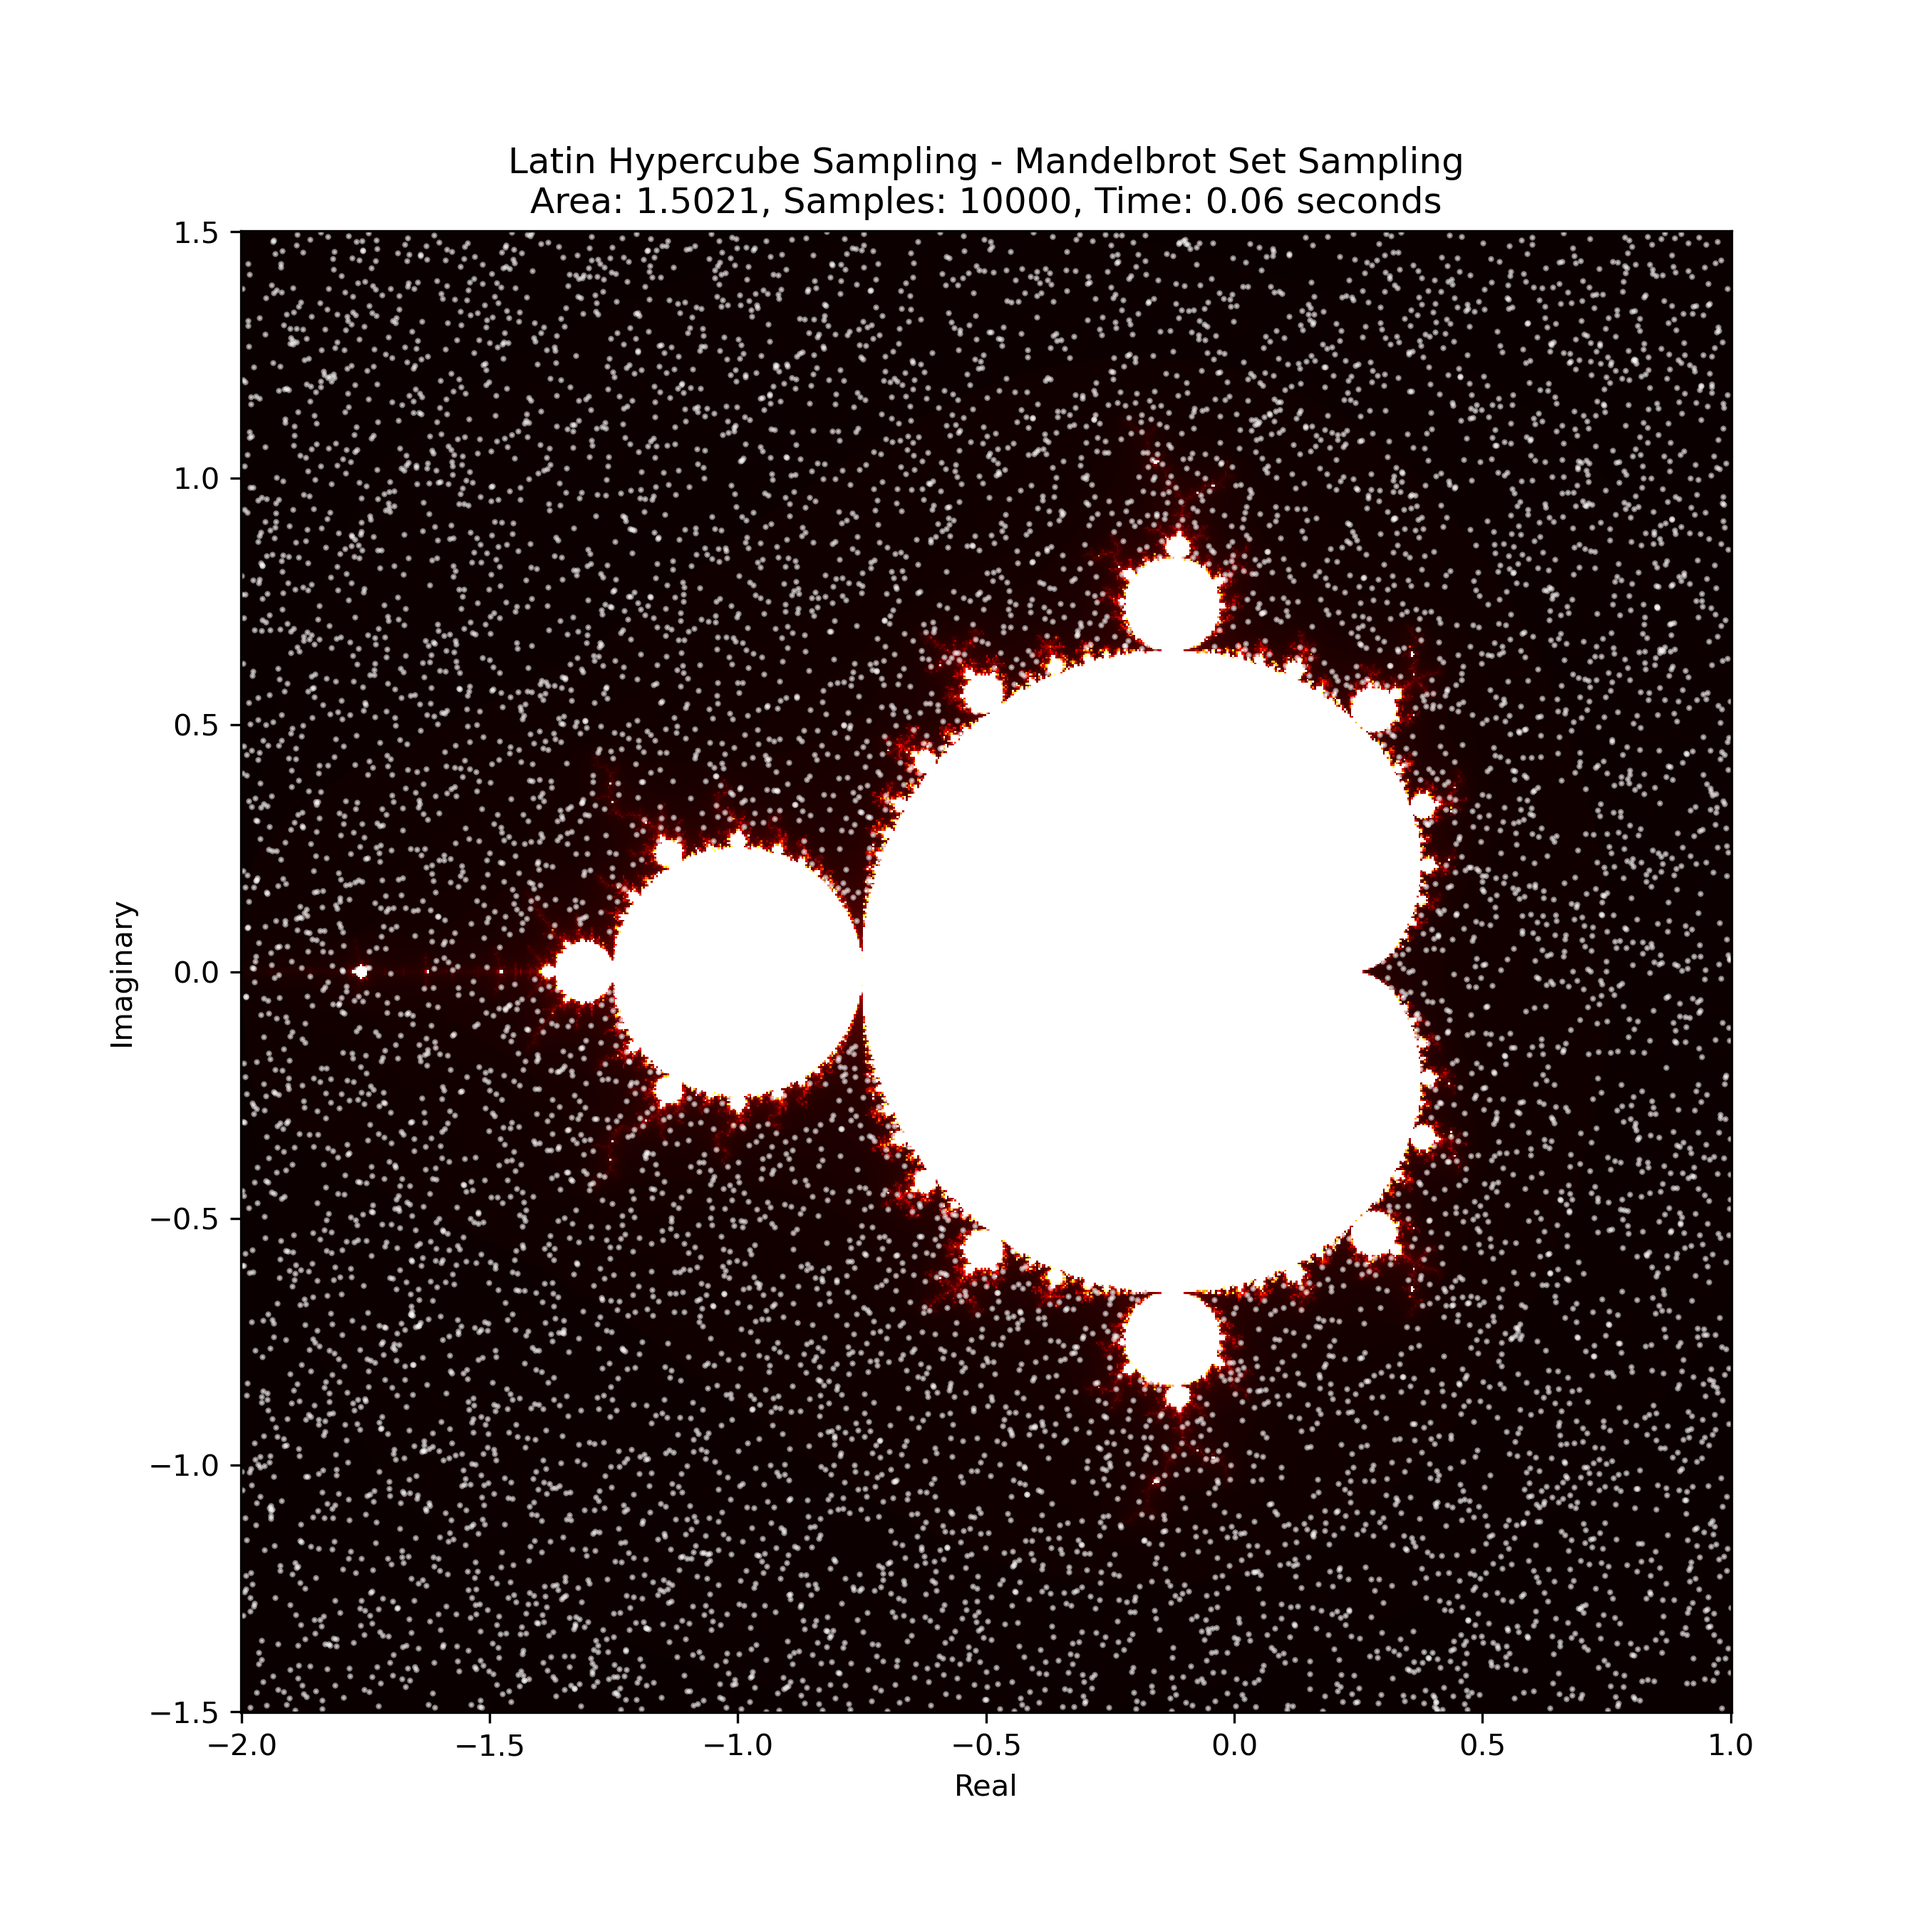
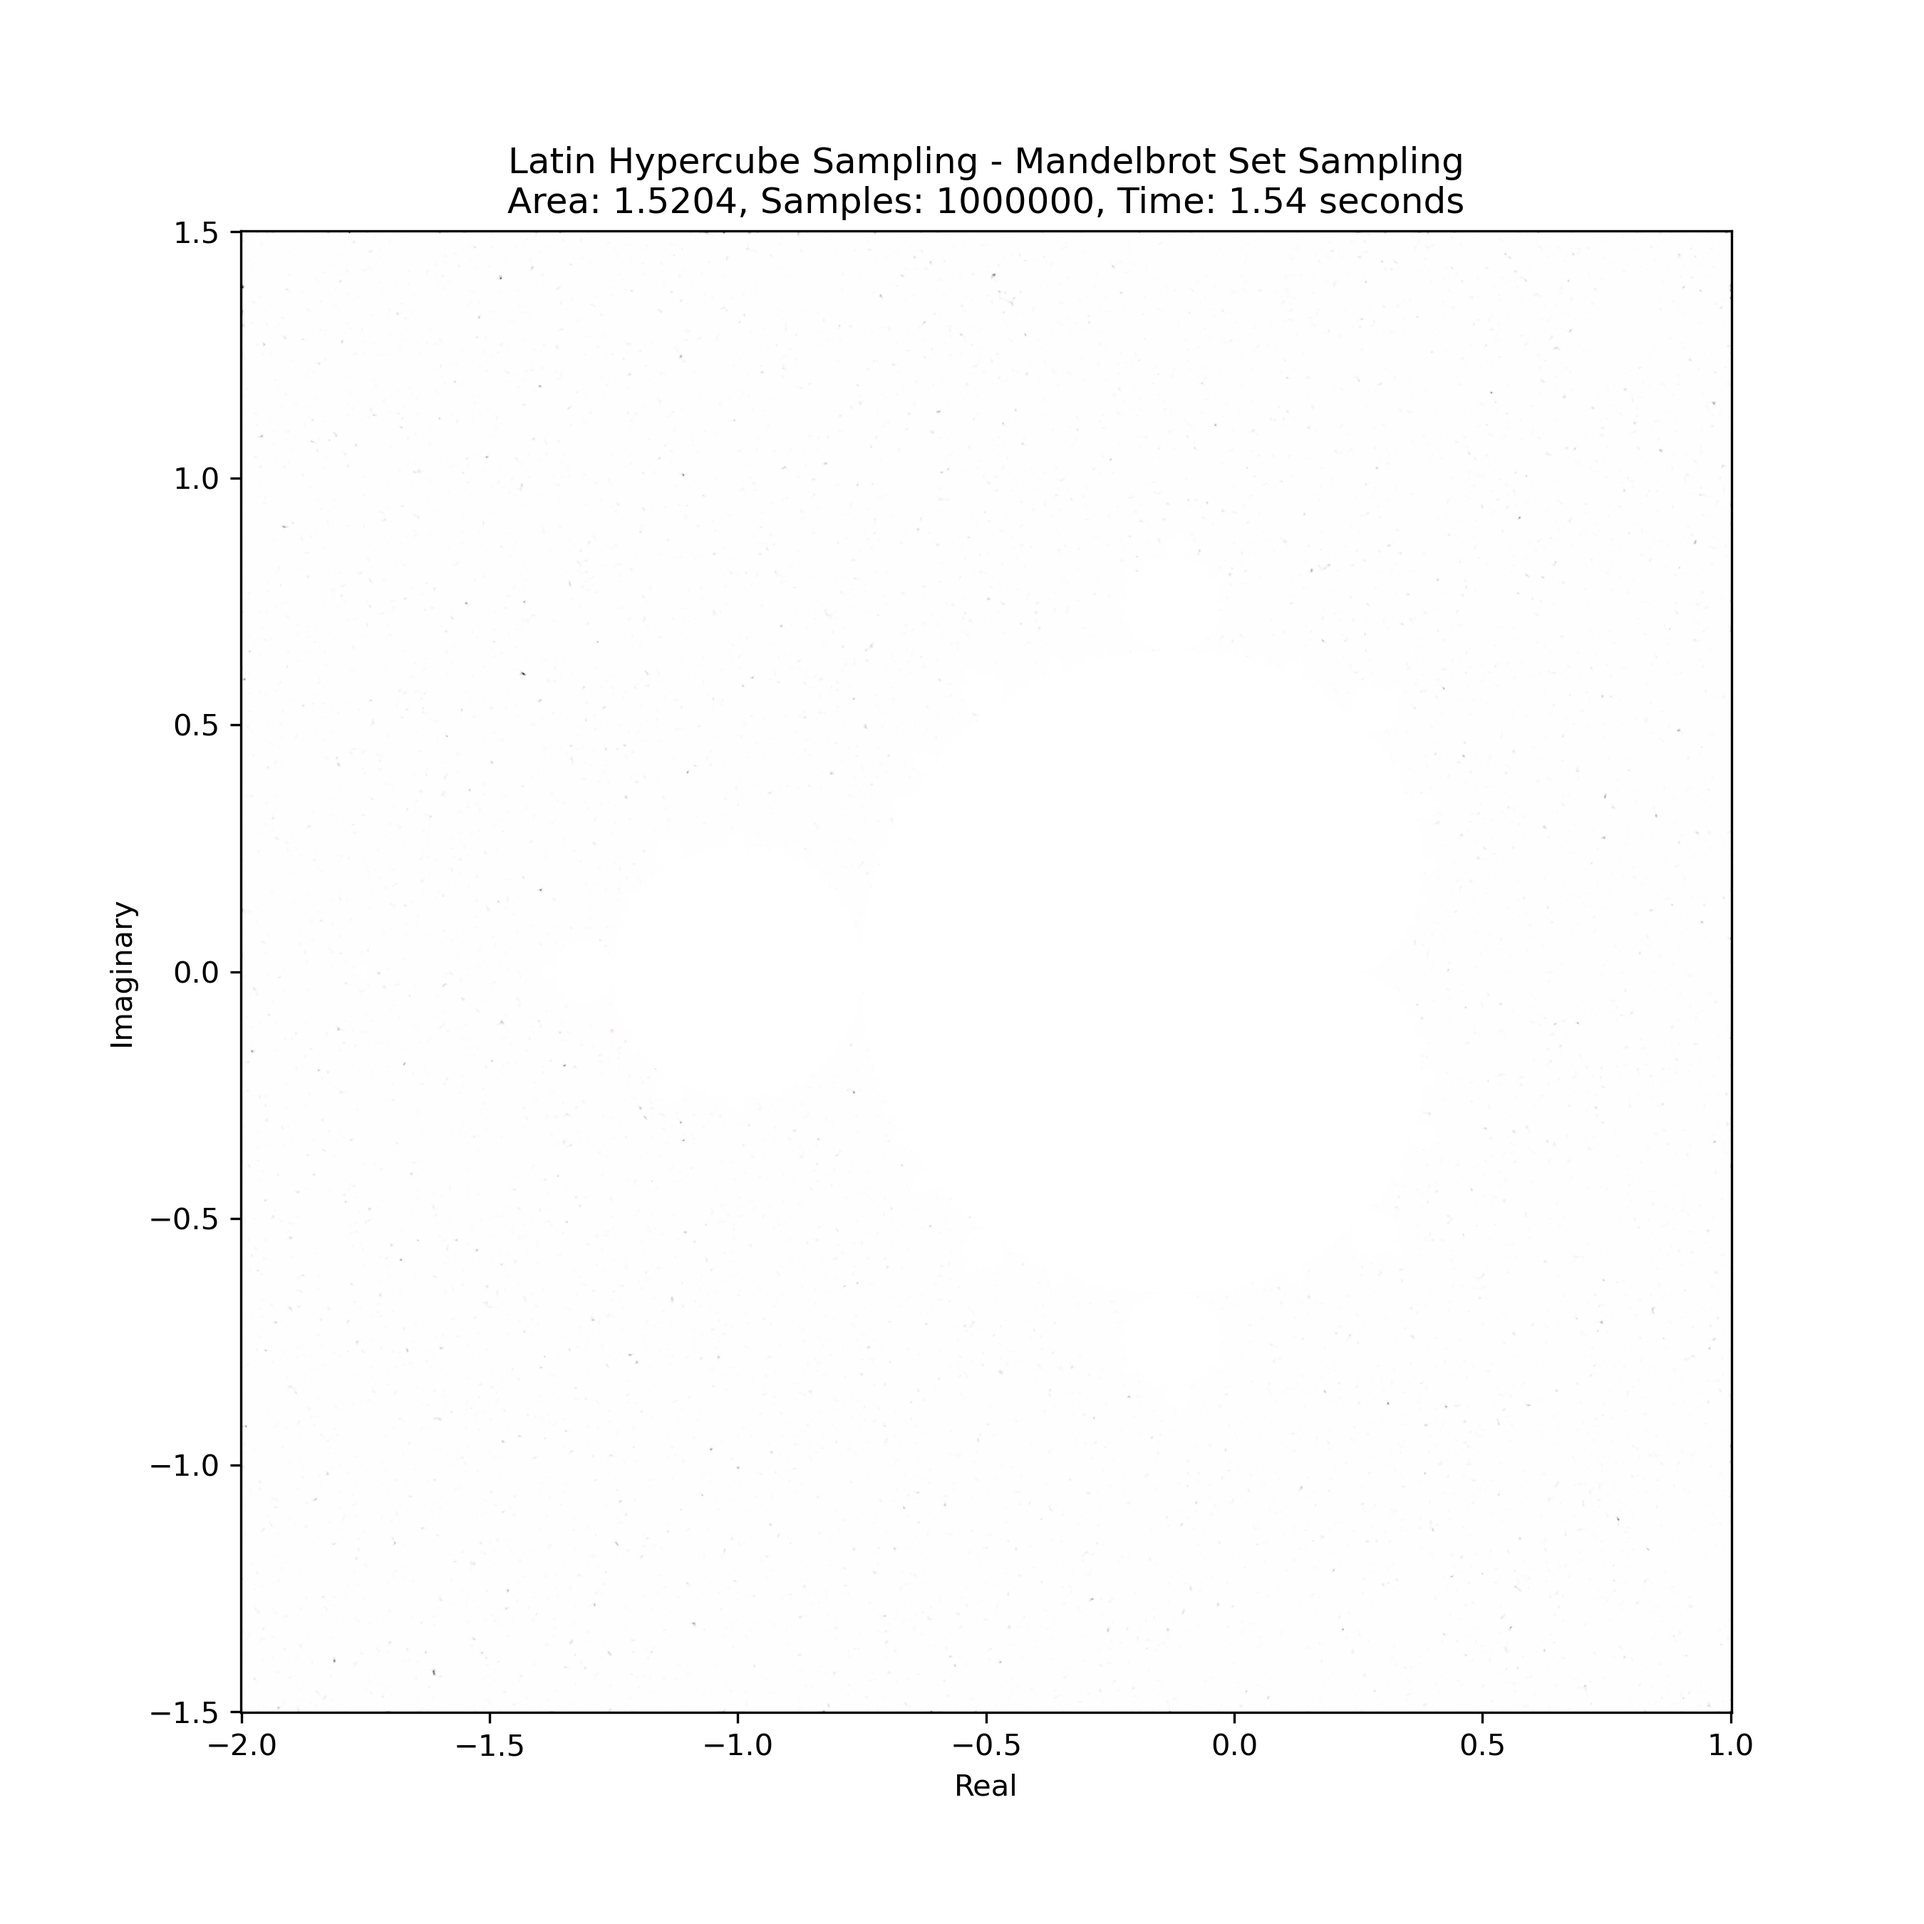
update

diff --git a/iteration_convergence.py b/iteration_convergence.py
@@ -1,0 +1,88 @@
+import numpy as np
+import scipy.stats as st
+import math
+import csv
+import matplotlib.pyplot as plt
+import seaborn as sns
+from methods import random_sampling, latin_sampling_scipy as LHS, orthogonal_sampling
+from antithetic import antithetic_random_sampling as ARS, antithetic_latin_sampling as ALS, antithetic_orthogonal_sampling as AOS
+from methods import xmax, xmin, ymax, ymin, n_samples, max_iter
+
+def conf_int(mean, var, n, p=0.95):
+    """
+    Calculate the confidence interval for a given mean, variance, and sample size.
+
+    Parameters:
+    mean (float): Mean value of the data.
+    var (float): Variance of the data.
+    n (int): Sample size.
+    p (float): Confidence level (default is 0.95 for 95%).
+
+    Returns:
+    str: Confidence interval represented as a string.
+    """
+    pnew = (p + 1) / 2
+    zval = st.norm.ppf(pnew)
+    sigma = math.sqrt(var)
+    alambda = (zval * sigma) / math.sqrt(n)
+    min_lambda = mean - alambda
+    plus_lambda = mean + alambda
+    return f"[{min_lambda:.4f}, {plus_lambda:.4f}]"
+
+
+sns.set(style="whitegrid")
+colors = sns.color_palette("pastel")
+
+
+def plot_convergence_iterations(xmin, xmax, ymin, ymax, n_samples, iteration_steps, simulations=10, p_value=0.95, colors=None):
+    plt.rcParams.update({"text.usetex": True, "font.family": "serif", "font.serif": ["Palatino"]})
+
+
+    if colors is None:
+        colors = sns.color_palette("tab10", n_colors=3)
+
+    sampling_methods = {
+        'Random Sampling': random_sampling,
+        'Latin Hypercube Sampling': LHS,
+        'Orthogonal Sampling': orthogonal_sampling
+    }
+
+    iteration_counts = iteration_steps
+
+    plt.figure(figsize=(12, 8))
+
+    for i, (method_name, method_function) in enumerate(sampling_methods.items()):
+        mean_areas = []
+        conf_intervals = []
+
+        for max_iter in iteration_counts:
+            areas = []
+            for _ in range(simulations):
+                _, _, _, area = method_function(xmin, xmax, ymin, ymax, n_samples, max_iter)
+                areas.append(area)
+
+            mean_area = np.mean(areas)
+            var_area = np.var(areas, ddof=1)
+            conf_int_low, conf_int_high = map(float, conf_int(mean_area, var_area, simulations, p=p_value)[1:-1].split(', '))
+
+            mean_areas.append(mean_area)
+            conf_intervals.append((conf_int_low, conf_int_high))
+
+        mean_areas = np.array(mean_areas)
+        lower_bounds = np.array([ci[0] for ci in conf_intervals])
+        upper_bounds = np.array([ci[1] for ci in conf_intervals])
+
+        plt.plot(iteration_counts, mean_areas, marker='o', color=colors[i % len(colors)], label=f"{method_name}")
+        plt.fill_between(iteration_counts, lower_bounds, upper_bounds, color=colors[i % len(colors)], alpha=0.2)
+
+    plt.xlabel('Number of Iterations', fontsize=14)
+    plt.ylabel('Estimated Area of Mandelbrot Set', fontsize=14)
+    plt.title('Convergence of Estimated Area with Increasing Iterations', fontsize=16)
+    plt.legend()
+    plt.grid(True)
+    plt.savefig('convergence_plot_with_iterations.png', dpi=300)
+    plt.show()
+
+iteration_steps = np.linspace(50, 10000, num=100, dtype=int) 
+n_samples = 1000000
+plot_convergence_iterations(xmin, xmax, ymin, ymax, n_samples, iteration_steps)

diff --git a/methods.py b/methods.py
@@ -7,7 +7,7 @@ import os
 from numba import jit
 
 
-@jit
+# @jit
 def mandelbrot(c, max_iter):
     """
     Calculate the Mandelbrot set iteration count for a given complex number.
@@ -28,7 +28,7 @@ def mandelbrot(c, max_iter):
         return max_iter
     return n + 1 - np.log(np.log2(abs(z)))
 
-@jit
+# @jit
 def mandelbrot_set(xmin, xmax, ymin, ymax, width, height, max_iter):
     """
     Generate a grid representation of the Mandelbrot set.
@@ -51,7 +51,7 @@ def mandelbrot_set(xmin, xmax, ymin, ymax, width, height, max_iter):
             n3[i, j] = mandelbrot(r1[i] + 1j*r2[j], max_iter)
     return (r1, r2, n3)
 
-@jit
+# @jit
 def calculate_area(xmin, xmax, ymin, ymax, z, max_iter):
     """Calculate the area of the Mandelbrot set."""
     in_set = z == max_iter
@@ -60,7 +60,7 @@ def calculate_area(xmin, xmax, ymin, ymax, z, max_iter):
 
 
 
-@jit
+# @jit
 def random_sampling(xmin, xmax, ymin, ymax, n_samples, max_iter=256):
     """Sample the Mandelbrot set using random sampling."""
     rng = np.random.default_rng()
@@ -70,7 +70,7 @@ def random_sampling(xmin, xmax, ymin, ymax, n_samples, max_iter=256):
     area = calculate_area(xmin, xmax, ymin, ymax, z, max_iter)
     return x_samples, y_samples, z, area
 
-@jit
+# @jit
 def latin_sampling_scipy(xmin, xmax, ymin, ymax, n_samples, max_iter=256):
     """Sample the Mandelbrot set using Latin hypercube sampling."""
     sampler = LatinHypercube(d=2)
@@ -81,12 +81,13 @@ def latin_sampling_scipy(xmin, xmax, ymin, ymax, n_samples, max_iter=256):
     area = calculate_area(xmin, xmax, ymin, ymax, z, max_iter)
     return x_samples, y_samples, z, area
 
-@jit
+# @jit
 def orthogonal_sampling(xmin, xmax, ymin, ymax, n_samples, max_iter=256):
     """Sample the Mandelbrot set using orthogonal sampling."""
     grid_size = int(np.sqrt(n_samples))
-    if grid_size**2 != n_samples:
-        raise ValueError("n_samples must be a perfect square for orthogonal sampling.")
+    actual_n_samples = grid_size**2
+    # if grid_size**2 != n_samples:
+    #     raise ValueError("n_samples must be a perfect square for orthogonal sampling.")
 
     x_step = (xmax - xmin) / grid_size
     y_step = (ymax - ymin) / grid_size
